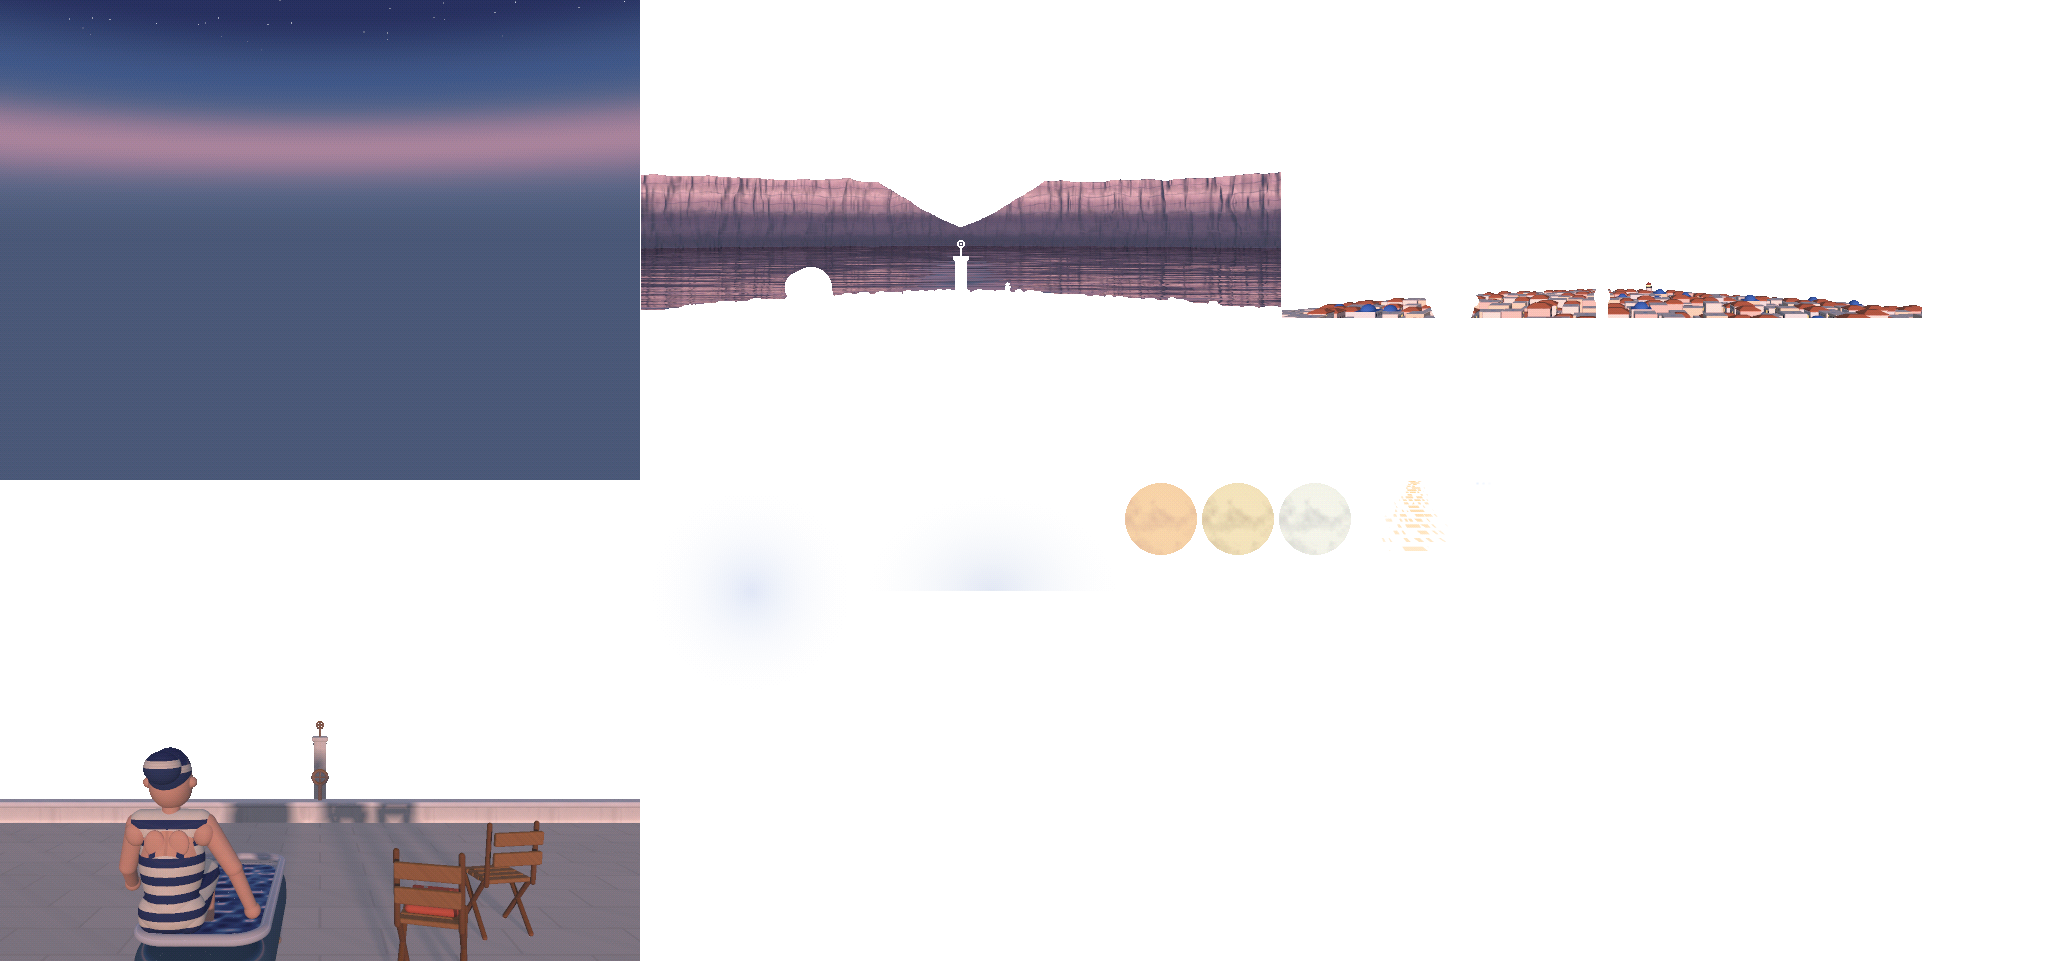
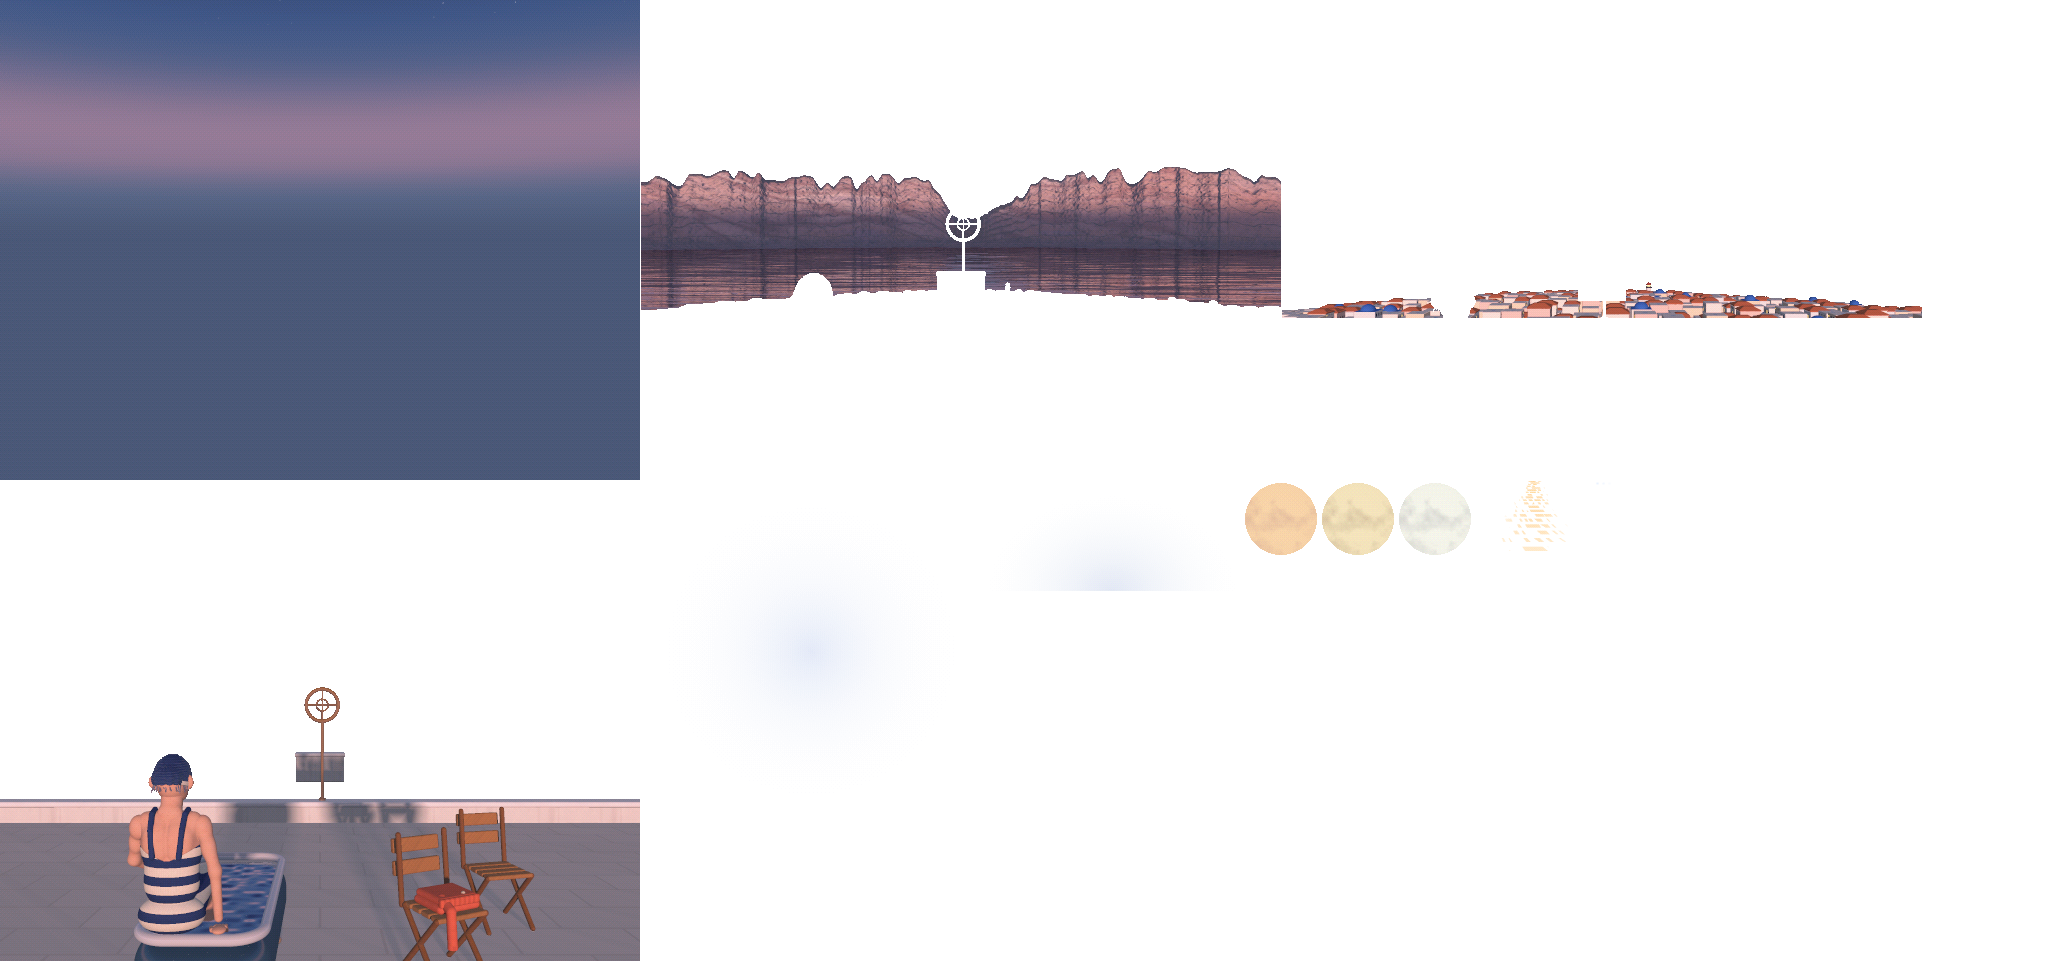
Isometric moonrise, rebuilt: a sculpted Cheryl, a heightfield Rim with a worn Gate, a true dusk sky, ring sights on the Gate's line
- Cheryl (models/vista-cheryl.mjs): ribbed, folded cap with band and loose ash
  strands; ear and jaw; shoulders, blades and spine; real straps; knit costume;
  arms with form; her hand and fingers on the rim.
- The Rim: a polar heightfield with a broken skyline, buttresses, gullies, ledges,
  scree and shoreline, varied rock and scrub, crag bumps; an asymmetric Gate
  with a worn saddle.
- The sky: a smooth eastward dusk gradient; a broader, softer moon halo.
- The pins: matched bronze ring sights whose centers lie on the line from the eye
  to the saddle, concentric like a gunsight; the far one on a short parapet.
- Rendered at 3x3 supersampling. persp.mjs: material bump normals; shadow rays
  offset with distance.

diff --git a/game/assets/iso/manifest.js b/game/assets/iso/manifest.js
@@ -688,22 +688,22 @@ export default {"tile":{"w":64,"h":32,"zPx":40},"sheets":{"cheryl":{"image":"che
 "far":[641,0,640,480,0,0],
 "town":[1282,0,640,480,0,0],
 "fg":[0,481,640,480,0,0],
-"moon_peach":[1123,481,76,76,38,38],
-"moon_cream":[1200,481,76,76,38,38],
-"moon_white":[1277,481,76,76,38,38],
-"moon_halo":[641,481,220,220,110,110],
-"glow":[862,481,260,110,130,110],
-"path":[1354,481,120,70,60,0],
-"twinkle_0":[1475,481,5,5,2,2],
-"twinkle_1":[1481,481,5,5,2,2],
-"twinkle_2":[1487,481,5,5,2,2]},
+"moon_peach":[1243,481,76,76,38,38],
+"moon_cream":[1320,481,76,76,38,38],
+"moon_white":[1397,481,76,76,38,38],
+"moon_halo":[641,481,340,340,170,170],
+"glow":[982,481,260,110,130,110],
+"path":[1474,481,120,70,60,0],
+"twinkle_0":[1595,481,5,5,2,2],
+"twinkle_1":[1601,481,5,5,2,2],
+"twinkle_2":[1607,481,5,5,2,2]},
 "twinkles":[[305,317],[305,314],[391,316],[28,317],[231,310],[333,313],[433,315],[486,317],[562,314],[136,313],[357,308],[578,314],[108,313],[195,311],[309,307],[354,307],[490,315],[578,315],[332,310],[505,307],[548,311],[570,317],[612,316],[29,316],[208,302],[250,307],[329,310],[470,316],[77,307],[117,315],[193,313],[252,313],[272,312],[290,304],[446,316],[504,317],[522,305],[544,307],[93,306],[130,305]],"picture":true,
 "size":[640,480],
 "order":["sky","glow","moon_halo","moon","far","path","town","fg","twinkle"],
-"glowAt":[438,184],"moonRise":{
-"from":[438,221],
-"to":[508,62]},
-"gate":[320,227],"pathTop":268},"ui":{"image":"ui.png","frames":{
+"glowAt":[438,174],"moonRise":{
+"from":[438,211],
+"to":[508,52]},
+"gate":[320,219],"pathTop":268},"ui":{"image":"ui.png","frames":{
 "panel_dialog":[129,0,96,96,0,0],
 "panel_narration":[226,0,96,96,0,0],
 "panel_thought":[323,0,96,96,0,0],

diff --git a/docs/iso-art-direction.md b/docs/iso-art-direction.md
@@ -105,7 +105,12 @@ An error in the world, not a monster. It uses only the reserved `wrong_*` colors
 
 Pictures are rendered in true perspective at 640×480 by `iso-art/lib/persp.mjs`, in layers the scene can move: a complete sky, the far scene, the foreground, and small sprites (moon, glow, halo, path, glints). The draw order and the positions the scene needs (the Gate, where the moon rises, where the basins glint) are in the sheet's manifest entry.
 
-**The moonrise** (`moonrise`) looks east from behind the tub. At lower left, Cheryl in her costume and cap sits on the tub's rim, the rim passing under her hips and her right hand on it, the water in front of her; her ears and the nape of her neck show below the cap. To her right on the roof's long whitewashed slabs stand the two folding chairs, her cardigan folded on the nearer. Her low-backed costume shows her shoulder blades between the straps, and the bun makes a bump under the cap. The roof's slabs lead to the low wall, unbroken, with the near pin at the bottom center and the far pin on the far parapet's end directly above it, both lined up on the Gate. Beyond: the town runs ahead in rows and streets down the island's back, its west walls in the last warm light and a few lamplit windows glowing, to the Prow and its lighthouse on the headland, lantern lit. Then the Bowl, mirroring the sky and the Gate's V in long streaks. Then the Rim: rose alpenglow on its upper cliffs, ledges where the beds step back, scree fans at the foot, a pale wet line at the shore, the air graying it with distance. The Gate is a deep V at screen center. The sky follows the story bible: no sunset glow in the east, the blue-grey Earth's shadow along the Rim, the Belt of Venus as a soft rose band just above it, blue, then indigo with only the brightest few stars. The moon rises from behind the Rim right of the Gate, peach-gold with a cool silver halo, and climbs up and to the right; its path is a column of thin horizontal glints, and because the town is its own layer drawn over the path, the glints show only on the water.
+**The moonrise** (`moonrise`) looks east from behind the tub, rendered at 3×3 supersampling.
+- **Cheryl** is sculpted for this picture (`iso-art/models/vista-cheryl.mjs`), not built with the sprite rig: a ribbed, folded cap over the bun with a cream band and loose strands of ash hair at the nape; an ear and the line of the jaw; shoulders, shoulder blades, and the spine's groove under the skin; straps over the shoulders; a knit costume; arms with form; and her right hand, fingers and thumb, on the tub's rim. She sits on the rim at lower left, the water in front of her.
+- **The sighting pins** are matched bronze ring sights with fine crosswires on slender rods: the near one on the low wall, the far one, smaller, on the end of the far parapet. Each ring's center is computed to lie on the line from the eye to the Gate's saddle, so the far ring sits concentric inside the near one and the saddle sits in their crosshairs like a gunsight. The moon then rises outside them, to the right.
+- **The Rim** is a heightfield in polar coordinates: a broken skyline with towers and small notches, great buttresses standing out and bays falling back, a few broad gullies, ledges running along the beds and fading in and out, scree fans at the foot and a wet line at the shore. Rock color varies by tilted bed, with iron-stained patches and scrub on the ledges, and a normal perturbation adds crags. The Gate is an asymmetric notch with a worn saddle: steep on the north (left) side, gentler with a shoulder on the south. (Sharp-creased noise and fast-changing ledge offsets both cut the face into vertical seams; both are smoothed.)
+- **The sky** is a smooth dusk gradient for an eastward view: the blue-grey Earth's shadow on the horizon, the Belt of Venus as a broad soft rose glow above it, blue deepening to indigo overhead, a few bright stars; the moon's broad silver halo brightens the sky round it.
+- The town runs ahead in rows and streets down the island's back, its west walls in the last warm light, a few windows lamplit, to the Prow's lighthouse; the Bowl mirrors the sky in long streaks; the moon's path of thin glints shows only on the water, under the `town` layer. The two folding chairs stand to her right, her cardigan folded on the nearer.
 
 ## Do and don't
 
